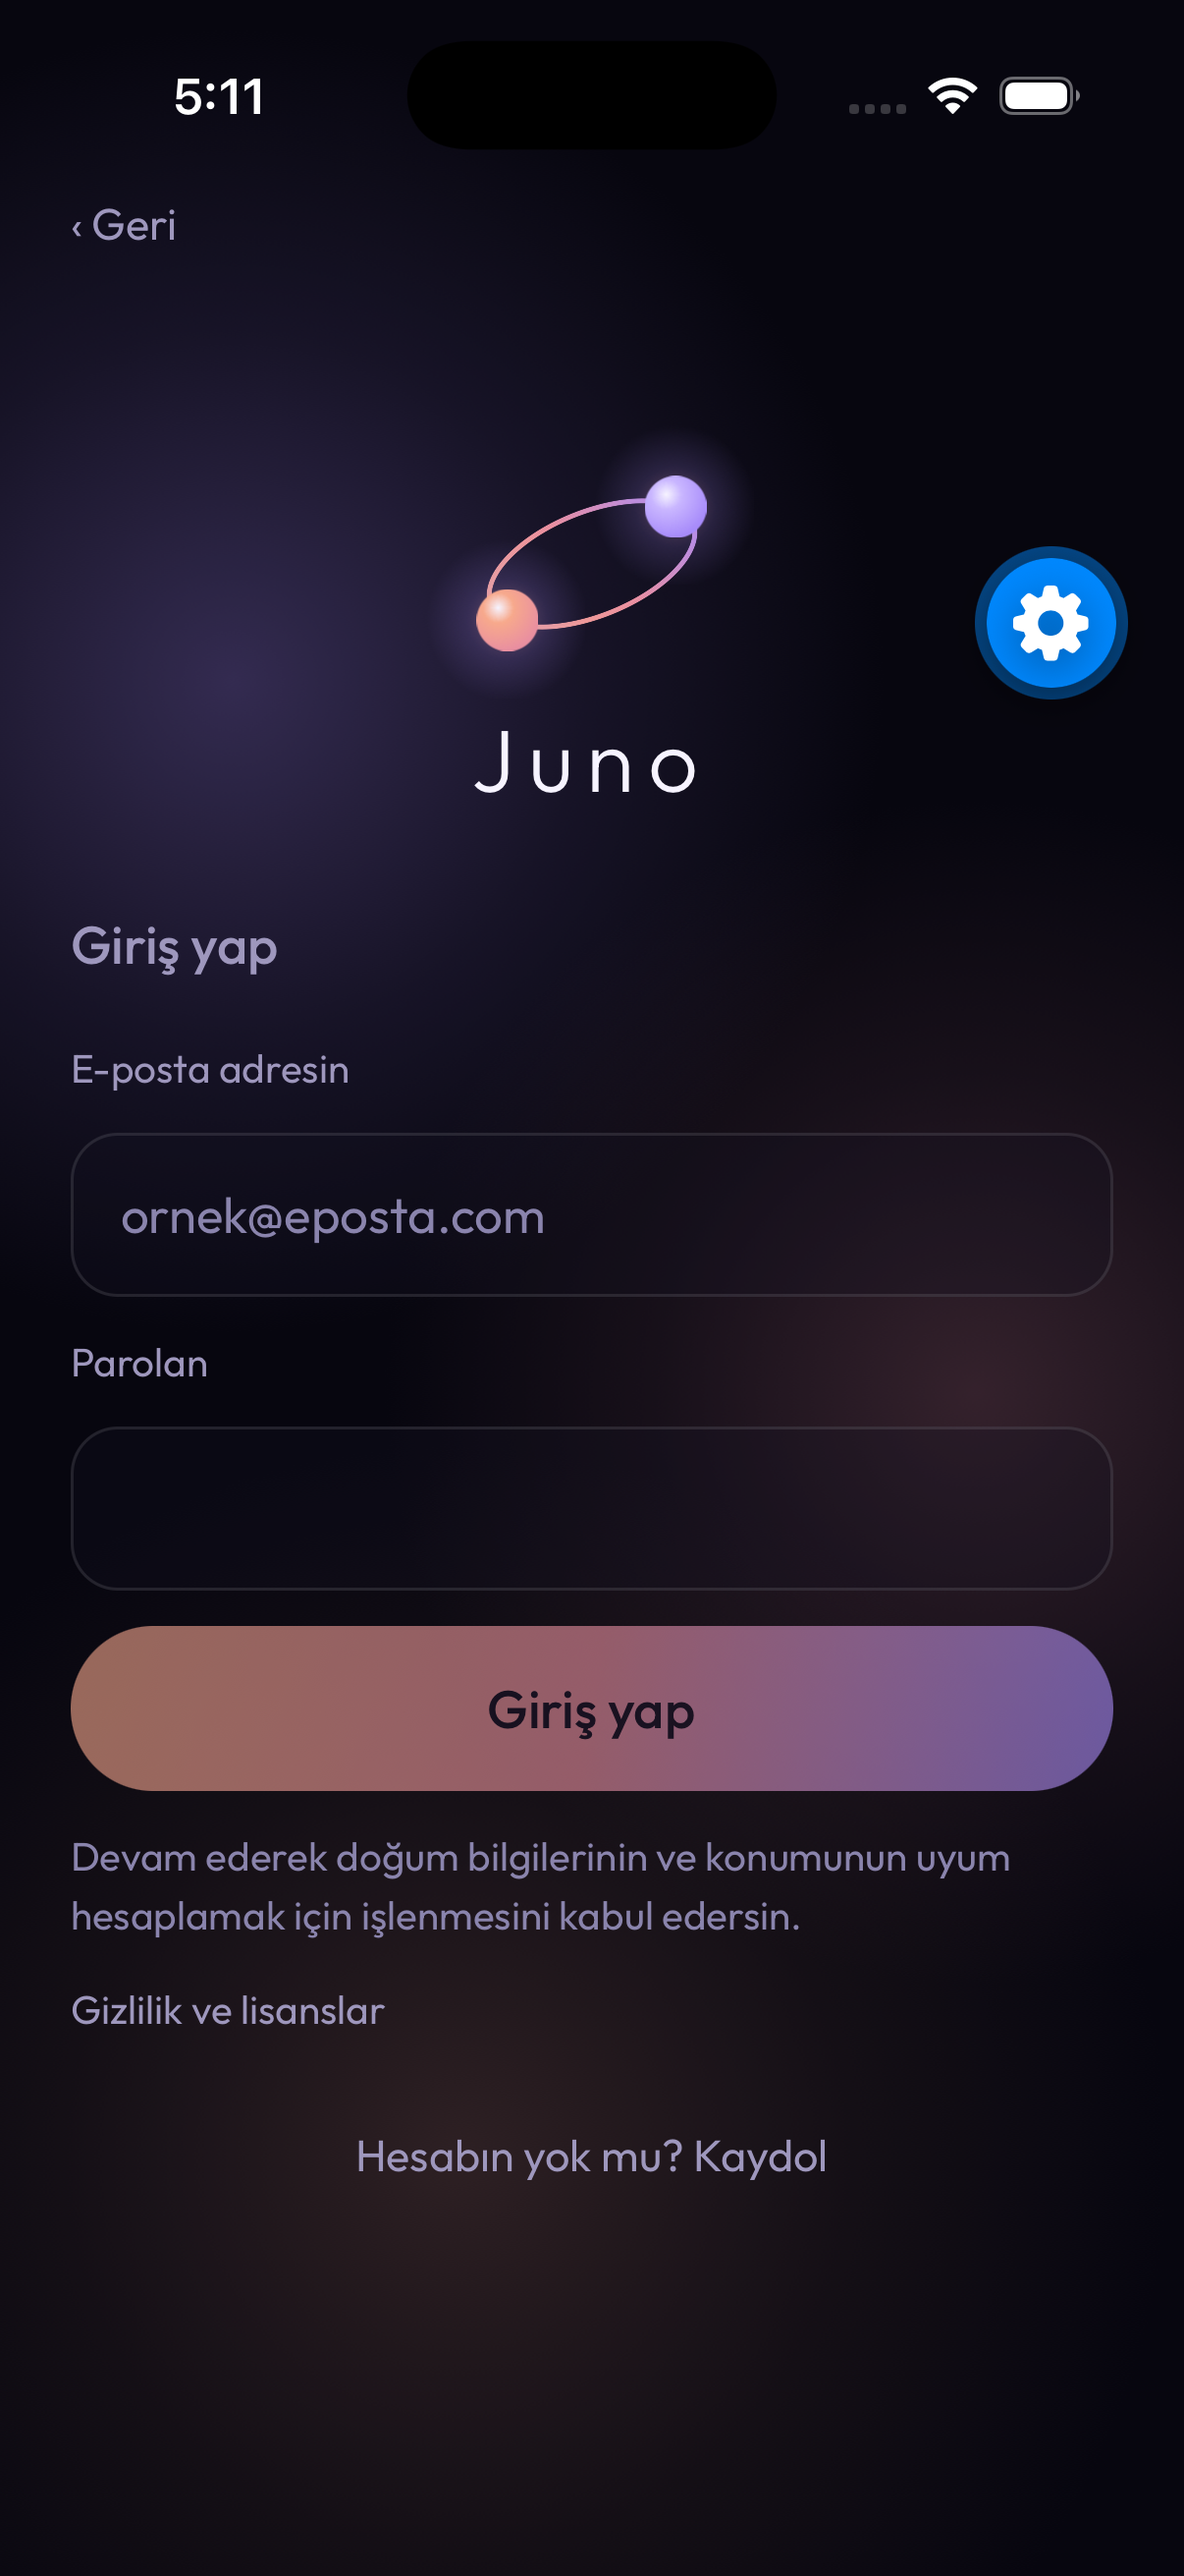
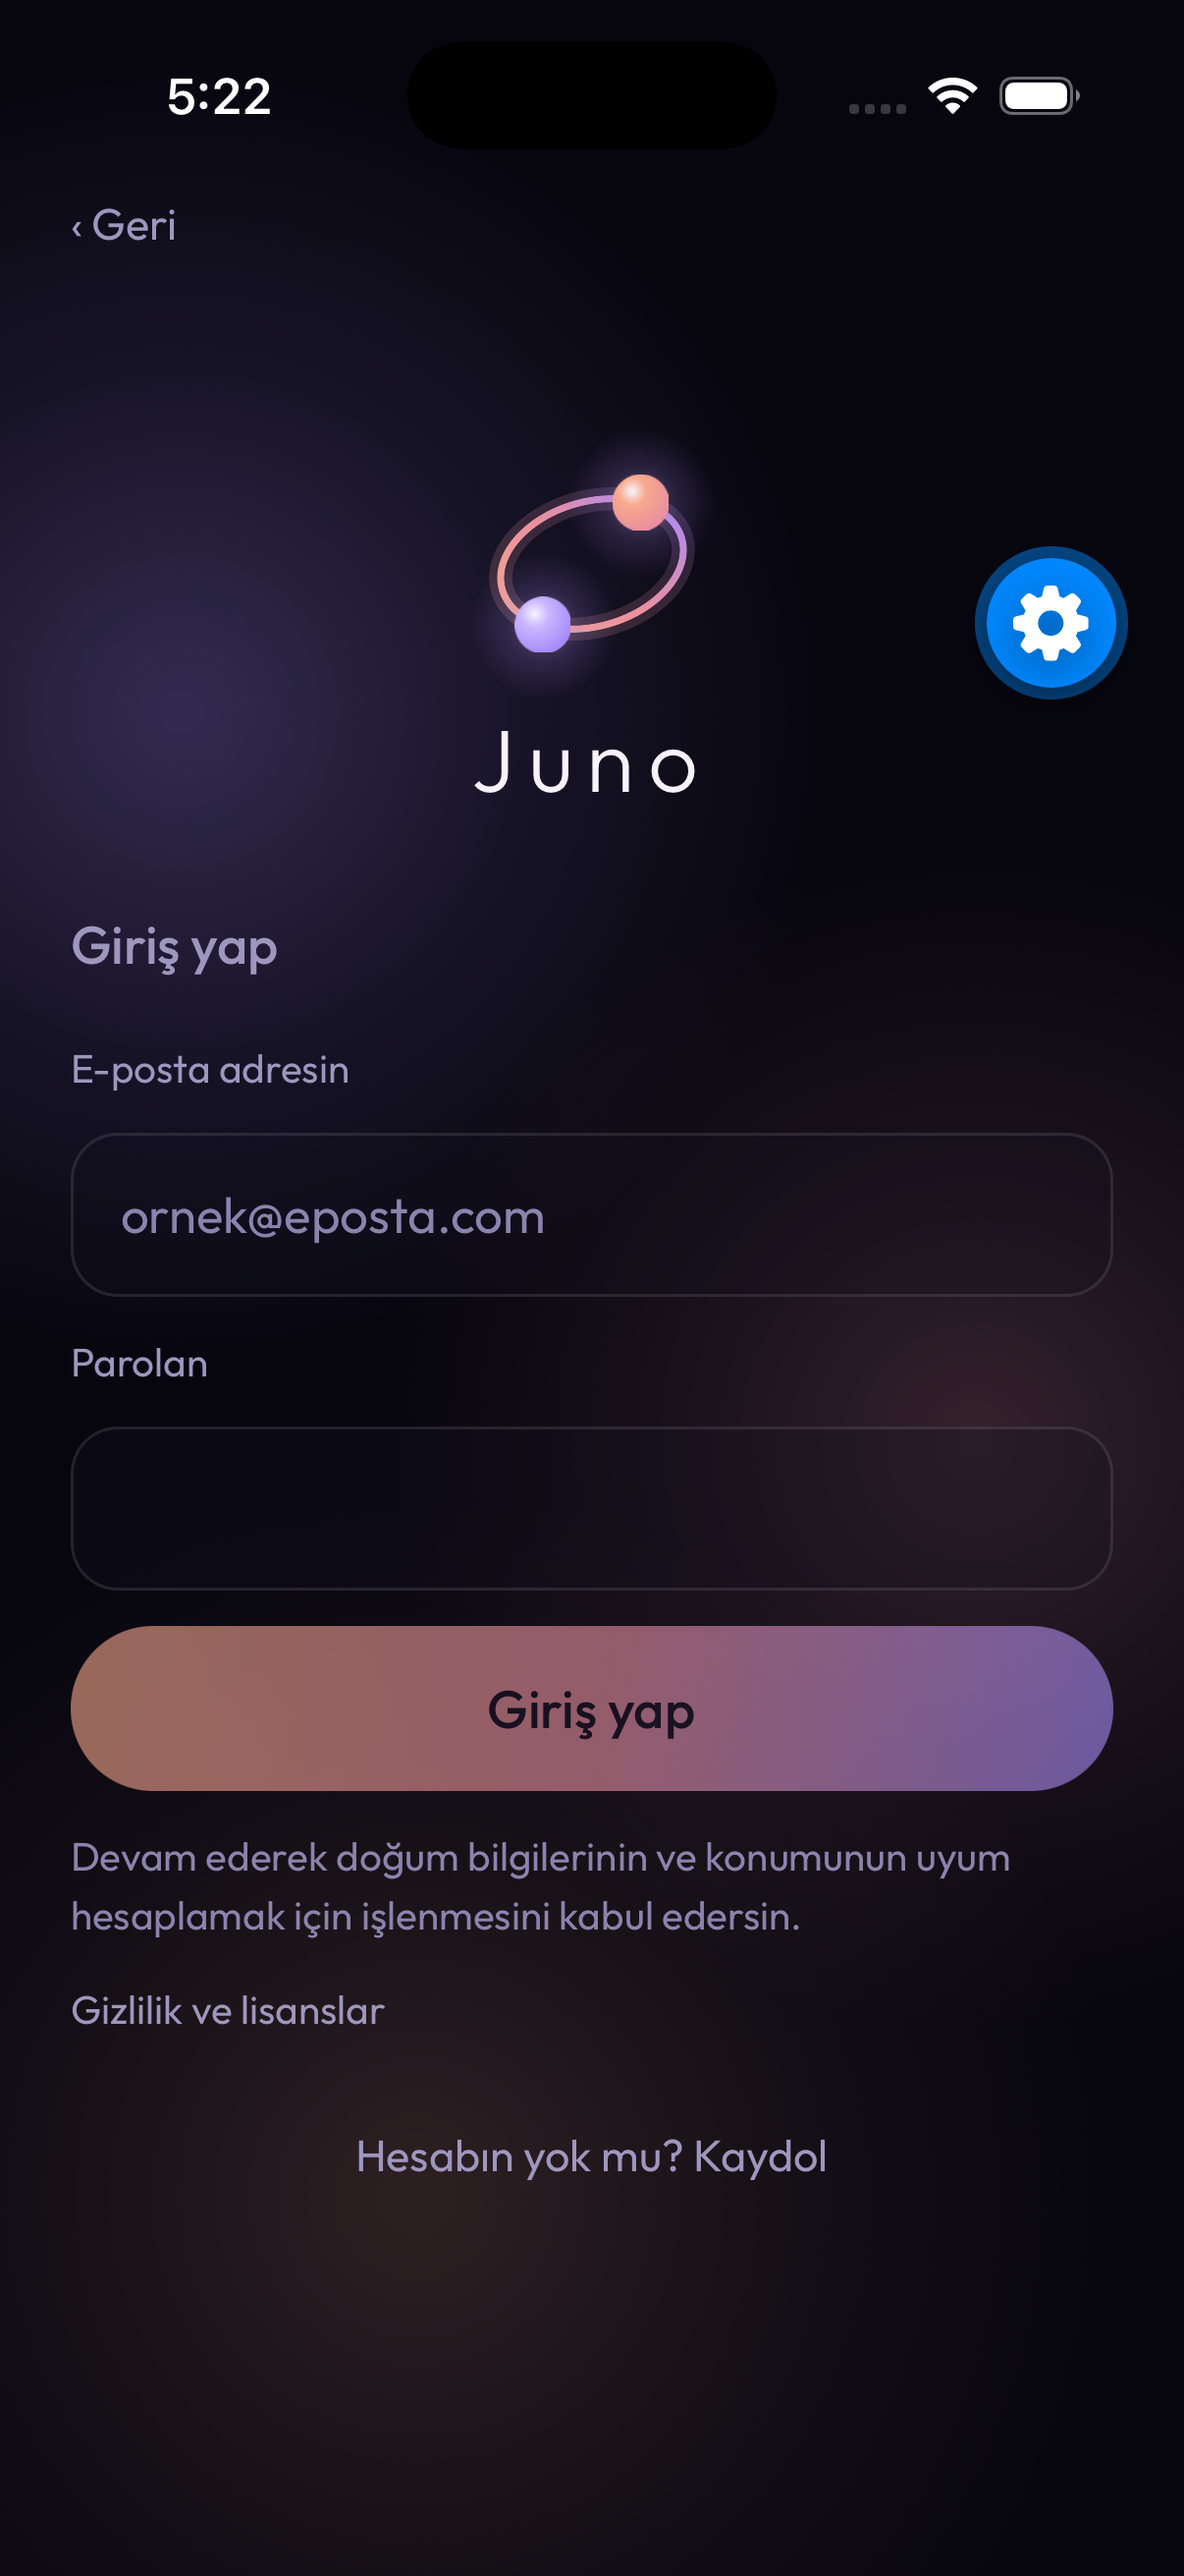
fix(mobile): the spheres orbit by rotation, a full lap without a seam
A table of points on the ellipse, interpolated on the native driver,
drew half a lap on iOS and snapped back — measured from a screen
recording, not reasoned. Each sphere now rides a stack of views: the
frame tilts and squashes a circle into the ring, an arm turns 0 → 360°
on one native loop, and the sphere at the arm's end turns back and
un-squashes. Two-stop rotations only, which the driver runs the same
everywhere; recorded again, one lap in eleven seconds, no jump. The
ring's proportions are the icon's.

Changed region(s): [[0.3682, 0.1545, 0.6136, 0.278], [0.1227, 0.0309, 0.2454, 0.0618]]

diff --git a/apps/mobile/components/ui.tsx b/apps/mobile/components/ui.tsx
@@ -388,12 +388,17 @@ export function BackChevron({
 /**
  * The brand mark, drawn: a gradient ring, tilted, and two spheres that
  * travel round it with their light (owner, 2026-09-16: the ring stays,
- * the planets orbit — not a spin of the whole). The ring is SVG; each
- * sphere is a view moved by one native loop through a table of points
- * on the ellipse, so nothing returns to JavaScript once it starts. With
- * Reduce Motion on, the spheres hold at their first positions. The old
- * `assets/brand/orbit-mark.png` is the icon's source and stays for the
- * splash and the store; this is the same picture in motion.
+ * the planets orbit — not a spin of the whole). The ring is SVG. Each
+ * sphere rides a stack of views: the outermost tilts and squashes a
+ * circle into the ring's ellipse, the next turns 0 → 360° on one native
+ * loop, the sphere sits at the ring's radius inside it and, in its own
+ * views, turns back and un-squashes so it stays a lit sphere. Every
+ * transform is a two-stop rotation or a constant, which is the one path
+ * the native driver runs the same on every platform — a table of points
+ * on the ellipse drew half a lap on iOS and snapped (measured from a
+ * screen recording, 2026-09-16). 0° and 360° are one place, so a lap
+ * closes without a seam. With Reduce Motion on, the spheres hold.
+ * `assets/brand/orbit-mark.png` stays as the icon's source.
  */
 export function OrbitMark({ size = 96 }: { size?: number }) {
   const still = useReducedMotion();
@@ -416,8 +421,22 @@ export function OrbitMark({ size = 96 }: { size?: number }) {
       run.stop();
     };
   }, [still, turn]);
-  const orbit = useMemo(() => orbitTable(size), [size]);
-  const sphere = size * 0.24;
+  const a = size * ORBIT_A;
+  const b = size * ORBIT_B;
+  const sphere = size * 0.22;
+  const { spin, unspin } = useMemo(
+    () => ({
+      spin: turn.interpolate({
+        inputRange: [0, 1],
+        outputRange: ['0deg', '360deg'],
+      }),
+      unspin: turn.interpolate({
+        inputRange: [0, 1],
+        outputRange: ['0deg', '-360deg'],
+      }),
+    }),
+    [turn],
+  );
   return (
     <View
       style={{ width: size, height: size }}
@@ -433,19 +452,61 @@ export function OrbitMark({ size = 96 }: { size?: number }) {
             <Stop offset="1" stopColor={gradient[2]} />
           </SvgLinearGradient>
         </Defs>
+        {/* A faint wide pass under the ring is its light. */}
         <Ellipse
           cx={size / 2}
           cy={size / 2}
-          rx={orbit.a}
-          ry={orbit.b}
+          rx={a}
+          ry={b}
           transform={`rotate(${ORBIT_TILT_DEG} ${size / 2} ${size / 2})`}
           stroke="url(#orbit-ring)"
-          strokeWidth={Math.max(1.5, size * 0.02)}
+          strokeWidth={Math.max(6, size * 0.09)}
+          opacity={0.18}
+          fill="none"
+        />
+        <Ellipse
+          cx={size / 2}
+          cy={size / 2}
+          rx={a}
+          ry={b}
+          transform={`rotate(${ORBIT_TILT_DEG} ${size / 2} ${size / 2})`}
+          stroke="url(#orbit-ring)"
+          strokeWidth={Math.max(1.5, size * 0.028)}
           fill="none"
         />
       </Svg>
-      <Sphere turn={turn} table={orbit.warm} size={sphere} tone="warm" />
-      <Sphere turn={turn} table={orbit.cool} size={sphere} tone="cool" />
+      {/* The ellipse's frame: tilted, and a circle of radius `a` squashed
+          to `b` tall. Both spheres orbit inside it. */}
+      <View
+        style={[
+          s.orbitFrame,
+          {
+            width: size,
+            height: size,
+            transform: [{ rotate: `${ORBIT_TILT_DEG}deg` }, { scaleY: b / a }],
+          },
+        ]}
+        pointerEvents="none"
+      >
+        <Sphere
+          spin={spin}
+          unspin={unspin}
+          radius={a}
+          squash={a / b}
+          size={sphere}
+          tone="cool"
+          offsetDeg={0}
+        />
+        <Sphere
+          spin={spin}
+          unspin={unspin}
+          radius={a}
+          squash={a / b}
+          size={sphere}
+          tone="warm"
+          offsetDeg={180}
+        />
+      </View>
     </View>
   );
 }
@@ -453,67 +514,38 @@ export function OrbitMark({ size = 96 }: { size?: number }) {
 /** One lap of the spheres. Slow: this is a mark, not a loader. */
 const ORBIT_MS = 11000;
 /** The ring's tilt, matching the icon. */
-const ORBIT_TILT_DEG = -22;
-/** Points per lap in the interpolation tables; straight between them. */
-const ORBIT_STEPS = 36;
+const ORBIT_TILT_DEG = -16;
+/**
+ * The icon's ellipse: about seven tenths of the mark wide and, before the
+ * tilt, two thirds as tall as it is wide (owner, 2026-09-16: "bu kadar
+ * eliptik değildi").
+ */
+const ORBIT_A = 0.36;
+const ORBIT_B = 0.24;
 
 /**
- * The ellipse's radii for a mark of `size`, and for each sphere the
- * x and y it takes at each step of a lap — the warm one a half-lap
- * ahead of the cool one, as on the icon. Offsets from the centre.
+ * One sphere on the ring. `spin` turns the arm that carries it; at the
+ * arm's end the sphere turns back by the same angle and stretches back
+ * by the frame's squash, so it is the same lit ball at every point of
+ * the lap. `offsetDeg` puts the second sphere across from the first.
  */
-function orbitTable(size: number) {
-  const a = size * 0.42;
-  const b = size * 0.2;
-  const phi = (ORBIT_TILT_DEG * Math.PI) / 180;
-  const at = (theta: number) => {
-    const x = a * Math.cos(theta);
-    const y = b * Math.sin(theta);
-    return {
-      x: x * Math.cos(phi) - y * Math.sin(phi),
-      y: x * Math.sin(phi) + y * Math.cos(phi),
-    };
-  };
-  const inputRange: number[] = [];
-  const warm = { inputRange, x: [] as number[], y: [] as number[] };
-  const cool = { inputRange, x: [] as number[], y: [] as number[] };
-  for (let i = 0; i <= ORBIT_STEPS; i += 1) {
-    const theta = (i / ORBIT_STEPS) * Math.PI * 2;
-    inputRange.push(i / ORBIT_STEPS);
-    const w = at(theta + Math.PI);
-    const c = at(theta);
-    warm.x.push(w.x);
-    warm.y.push(w.y);
-    cool.x.push(c.x);
-    cool.y.push(c.y);
-  }
-  return { a, b, warm, cool };
-}
-
 function Sphere({
-  turn,
-  table,
+  spin,
+  unspin,
+  radius,
+  squash,
   size,
   tone,
+  offsetDeg,
 }: {
-  turn: Animated.Value;
-  table: { inputRange: number[]; x: number[]; y: number[] };
+  spin: Animated.AnimatedInterpolation<string>;
+  unspin: Animated.AnimatedInterpolation<string>;
+  radius: number;
+  squash: number;
   size: number;
   tone: 'warm' | 'cool';
+  offsetDeg: 0 | 180;
 }) {
-  const { translateX, translateY } = useMemo(
-    () => ({
-      translateX: turn.interpolate({
-        inputRange: table.inputRange,
-        outputRange: table.x,
-      }),
-      translateY: turn.interpolate({
-        inputRange: table.inputRange,
-        outputRange: table.y,
-      }),
-    }),
-    [turn, table],
-  );
   const glow = size * 2.6;
   const [light, mid, dark] =
     tone === 'warm'
@@ -522,35 +554,51 @@ function Sphere({
   return (
     <Animated.View
       style={[
-        s.sphere,
-        {
-          width: size,
-          height: size,
-          marginLeft: -size / 2,
-          marginTop: -size / 2,
-          transform: [{ translateX }, { translateY }],
-        },
+        s.orbitArm,
+        { transform: [{ rotate: `${offsetDeg}deg` }, { rotate: spin }] },
       ]}
     >
-      <Glow
-        size={glow}
-        style={{ top: -(glow - size) / 2, left: -(glow - size) / 2 }}
-      />
-      <Svg width={size} height={size}>
-        <Defs>
-          <RadialGradient id={`sphere-${tone}`} cx="35%" cy="30%" r="70%">
-            <Stop offset="0" stopColor={light} />
-            <Stop offset="0.35" stopColor={mid} />
-            <Stop offset="1" stopColor={dark} />
-          </RadialGradient>
-        </Defs>
-        <Circle
-          cx={size / 2}
-          cy={size / 2}
-          r={size / 2}
-          fill={`url(#sphere-${tone})`}
-        />
-      </Svg>
+      <View style={[s.orbitSeat, { left: '50%', marginLeft: radius }]}>
+        <Animated.View
+          style={{
+            transform: [
+              { rotate: unspin },
+              { rotate: `${-offsetDeg}deg` },
+              { scaleY: squash },
+              { rotate: `${-ORBIT_TILT_DEG}deg` },
+            ],
+          }}
+        >
+          <View
+            style={{
+              width: size,
+              height: size,
+              marginLeft: -size / 2,
+              marginTop: -size / 2,
+            }}
+          >
+            <Glow
+              size={glow}
+              style={{ top: -(glow - size) / 2, left: -(glow - size) / 2 }}
+            />
+            <Svg width={size} height={size}>
+              <Defs>
+                <RadialGradient id={`sphere-${tone}`} cx="35%" cy="30%" r="70%">
+                  <Stop offset="0" stopColor={light} />
+                  <Stop offset="0.35" stopColor={mid} />
+                  <Stop offset="1" stopColor={dark} />
+                </RadialGradient>
+              </Defs>
+              <Circle
+                cx={size / 2}
+                cy={size / 2}
+                r={size / 2}
+                fill={`url(#sphere-${tone})`}
+              />
+            </Svg>
+          </View>
+        </Animated.View>
+      </View>
     </Animated.View>
   );
 }
@@ -824,8 +872,11 @@ const s = StyleSheet.create({
   },
   badgeGlyph: { fontSize: 19 },
   glow: { position: 'absolute' },
-  // At the centre; the transform carries it round the ring.
-  sphere: { position: 'absolute', left: '50%', top: '50%' },
+  orbitFrame: { position: 'absolute', top: 0, left: 0 },
+  // The arm fills the frame and turns about its centre; the seat is a
+  // point at the arm's end, on the ring.
+  orbitArm: { position: 'absolute', top: 0, left: 0, right: 0, bottom: 0 },
+  orbitSeat: { position: 'absolute', top: '50%', width: 0, height: 0 },
   wordmark: {
     fontFamily: font.light,
     color: color.text,
